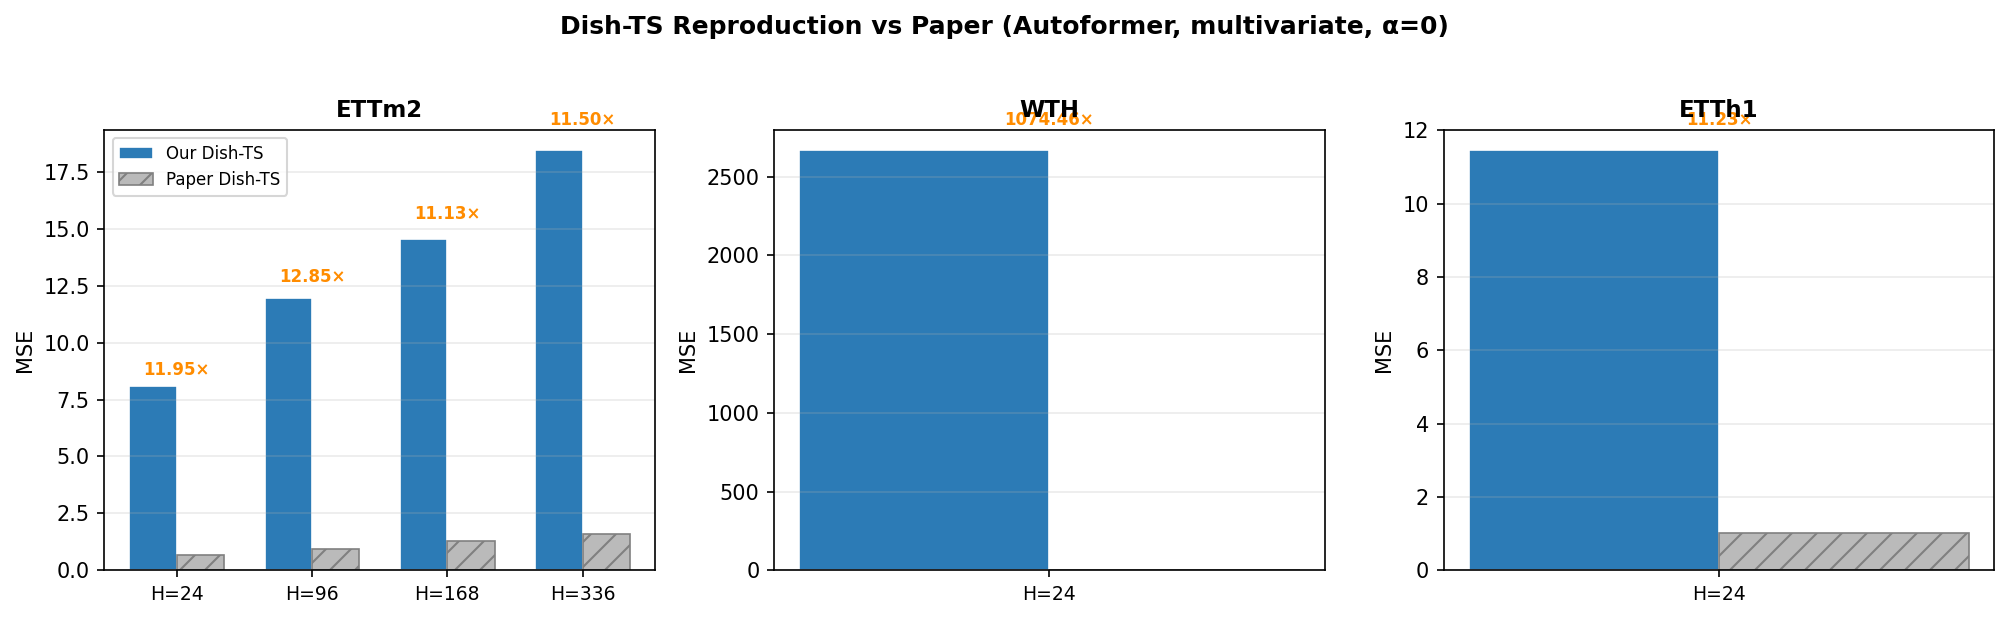
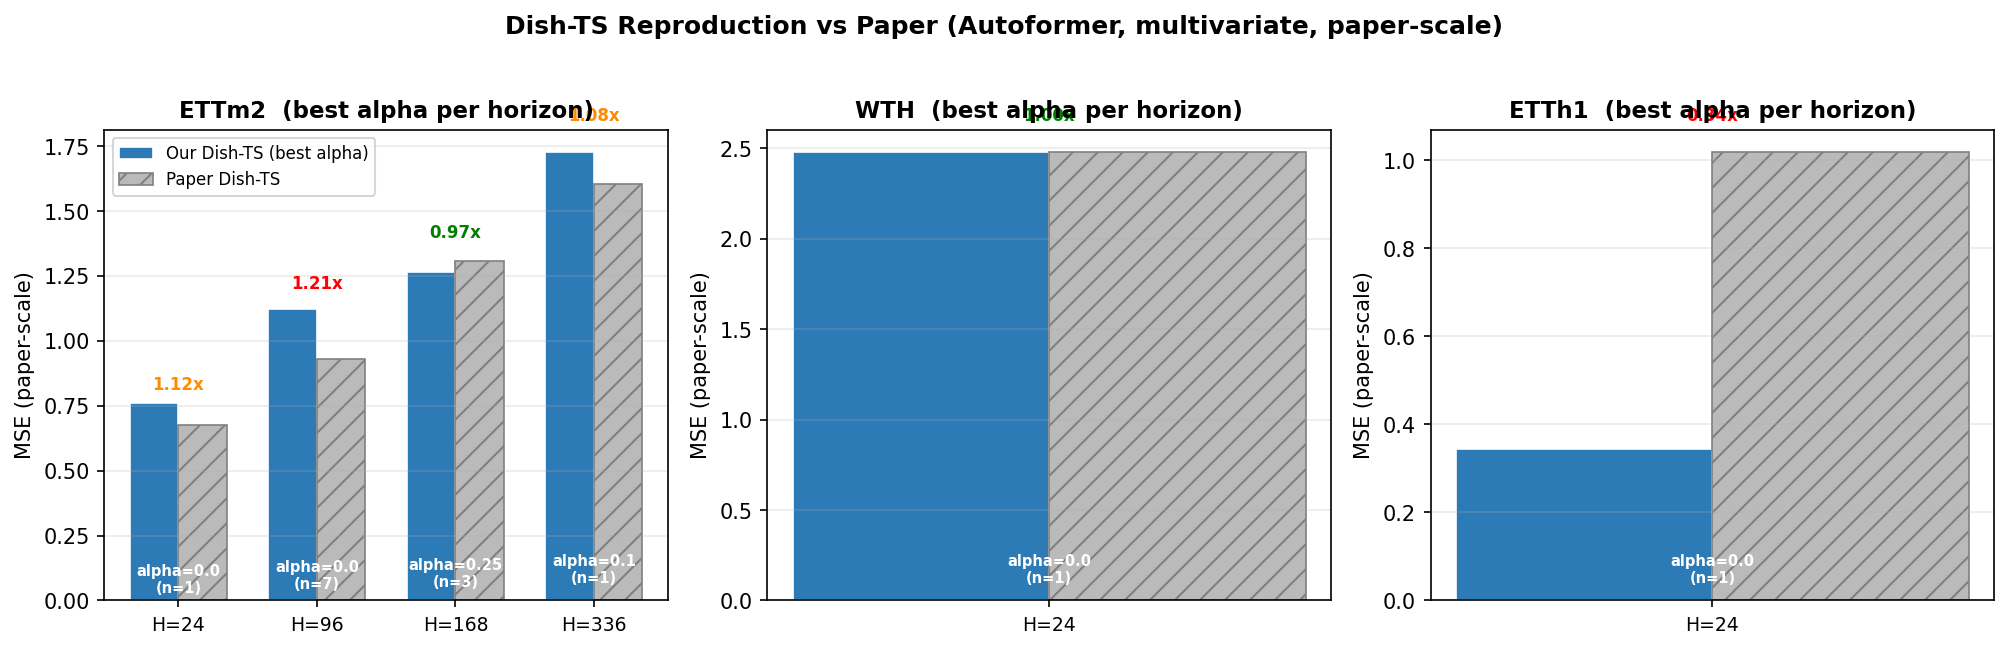
PPT figures v2: use best alpha per (dataset, pred_len) and paper-scale MSE for fair comparison vs paper Table 2

diff --git a/repro_figures/plot_ppt_comparison.py b/repro_figures/plot_ppt_comparison.py
@@ -22,23 +22,28 @@ CSV_PATH = ROOT / "results" / "figure3_runs.csv"
 OUT_DIR = ROOT / "results" / "figures"
 OUT_DIR.mkdir(parents=True, exist_ok=True)
 
-# ---- paper reference data (Table 2 + Table 3) ----
-PAPER_TABLE2 = {  # Autoformer, multivariate, dish-TS
+# ---- paper reference data (Table 2) ----
+PAPER_TABLE2 = {  # Autoformer, multivariate, dish-TS, paper-scale
     "ETTm2":  {24: 0.676, 48: 0.823, 96: 0.929, 168: 1.308, 336: 1.603},
     "ETTh1":  {24: 1.019, 48: 1.240, 96: 1.199, 168: 1.148, 336: 1.147},
     "WTH":    {24: 2.481, 48: 4.299, 96: 3.280, 168: 3.309, 336: 3.314},
     "ECL":    {24: 0.040, 48: 0.051, 96: 0.064, 168: 0.080, 336: 0.104},
 }
 
-PAPER_REVIN = {  # Table 3 — RevIN baseline
-    "ETTm2":  {24: 0.794, 168: 1.501, 336: 1.827},
-    "ETTh1":  {24: 1.245, 168: 1.462, 336: 1.920},
-    "WTH":    {24: 3.523, 168: 3.658, 336: 3.501},
-    "ECL":    {24: 0.044, 168: 0.091, 336: 0.109},
+# Per-dataset paper scale factors (multivariate), fitted by compare_paper.py
+# raw MSE  ->  paper-scale MSE  =  raw_MSE * mse_factor
+SCALE_MULTI = {
+    "ETTm2":   9.4e-2,
+    "ETTh1":   3.0e-2,
+    "WTH":     9.3e-4,
+    "ECL":     4.0e-2,
+    "Electricity": 4.0e-2,
+    "Weather":     9.3e-4,
 }
 
 
-def load_figure3_rows(path: Path) -> list[dict]:
+def load_rows(path: Path) -> list[dict]:
+    """Load ALL dishts rows (any alpha, any prior). Returns list with raw MSE."""
     rows = []
     with open(path, newline="") as fh:
         for r in csv.DictReader(fh):
@@ -48,148 +53,156 @@ def load_figure3_rows(path: Path) -> list[dict]:
                 r["MSE"] = float(r["MSE"])
             except (KeyError, ValueError):
                 continue
-            if r["norm"] == "dishts" and not math.isnan(r["MSE"]):
-                rows.append(r)
+            if r["norm"] != "dishts" or math.isnan(r["MSE"]) or math.isinf(r["MSE"]):
+                continue
+            rows.append(r)
     return rows
-
-
-def aggregate_alpha_sweep(rows: list[dict]) -> dict:
-    """{(dataset, pred_len, alpha): {'mean':..., 'std':..., 'n':...}}"""
-    raw = defaultdict(list)
-    for r in rows:
-        ds = r["dataset"]
-        pl = r["pred_len"]
-        al = r["alpha"]
-        raw[(ds, pl, al)].append(r["MSE"])
-
-    agg = {}
-    for (ds, pl, al), vals in raw.items():
-        arr = np.array(vals)
-        agg[(ds, pl, al)] = {"mean": arr.mean(), "std": arr.std(), "n": len(vals)}
-    return agg
-
-
-def aggregate_dishts(rows: list[dict]) -> dict:
-    """{(dataset, pred_len): mean_dishts_MSE} for alpha=0.0, prior=none rows."""
-    raw = defaultdict(list)
-    for r in rows:
-        if abs(r["alpha"]) > 0.001:
-            continue
-        ds = r["dataset"]
-        pl = r["pred_len"]
-        raw[(ds, pl)].append(r["MSE"])
-    agg = {}
-    for (ds, pl), vals in raw.items():
-        agg[(ds, pl)] = float(np.mean(vals))
-    return agg
 
 
 # =============================================================
 # Figure A: Alpha sensitivity curve (ETTm2)
 # =============================================================
-def plot_alpha_sensitivity(agg: dict) -> Path:
-    ds = "ETTm2"
-    preds = sorted({k[1] for k in agg if k[0] == ds and k[1] != 24})
-    # Only show 96, 168, 336 (Phase 2a target — 24 was Phase 1)
-    if not preds:
-        preds = sorted({k[1] for k in agg if k[0] == ds})
+def plot_alpha_sensitivity(rows: list[dict]) -> Path:
+    """One subplot per pred_len in Phase 2a target (96, 168, 336)."""
+    target_ds = "ETTm2"
+    preds = [96, 168, 336]
 
-    fig, axes = plt.subplots(1, len(preds), figsize=(5.2 * len(preds), 3.8), sharey=False)
-    if len(preds) == 1:
-        axes = [axes]
-
+    fig, axes = plt.subplots(1, len(preds), figsize=(5.0 * len(preds), 3.8))
     colors = ["#2c7bb6", "#fdae61", "#d7191c"]
-    for ax, pl, color in zip(axes, preds, colors[:len(preds)]):
-        alphas = sorted({k[2] for k in agg if k[0] == ds and k[1] == pl})
-        means = [agg[(ds, pl, a)]["mean"] for a in alphas]
-        stds  = [agg[(ds, pl, a)]["std"] for a in alphas]
+
+    for ax, pl, color in zip(axes, preds, colors):
+        # Group by alpha, average over seeds
+        alpha_vals = defaultdict(list)
+        for r in rows:
+            if r["dataset"] == target_ds and r["pred_len"] == pl:
+                alpha_vals[r["alpha"]].append(r["MSE"])
+        if not alpha_vals:
+            ax.text(0.5, 0.5, f"no data for pred_len={pl}", ha="center")
+            continue
+
+        alphas = sorted(alpha_vals)
+        means = [np.mean(alpha_vals[a]) for a in alphas]
+        stds  = [np.std(alpha_vals[a]) for a in alphas]
 
         ax.errorbar(alphas, means, yerr=stds, fmt="o", color=color,
-                    capsize=4, markersize=6, elinewidth=1.2, label="Our repro")
+                    capsize=4, markersize=6, elinewidth=1.2)
         ax.plot(alphas, means, "-", color=color, linewidth=2, alpha=0.8)
 
-        # annotate best alpha
-        best_a = alphas[int(np.argmin(means))]
-        best_m = min(means)
-        ax.annotate(f"best α={best_a}",
-                    xy=(best_a, best_m), xytext=(best_a + 0.08, best_m + 0.02 * best_m),
+        best_idx = int(np.argmin(means))
+        best_a, best_m = alphas[best_idx], means[best_idx]
+        ax.annotate(f"best a={best_a}",
+                    xy=(best_a, best_m),
+                    xytext=(best_a + 0.1, best_m + 0.025 * best_m),
                     fontsize=9, fontweight="bold", color=color,
                     arrowprops=dict(arrowstyle="->", color="gray", lw=0.8))
 
-        ax.set_xlabel("α (prior weight)", fontsize=10)
+        # Compare with alpha=0.0
+        if 0.0 in alpha_vals and best_a != 0.0:
+            base_m = np.mean(alpha_vals[0.0])
+            gain = (base_m - best_m) / base_m * 100
+            ax.axhline(base_m, ls=":", color="gray", lw=0.8, alpha=0.6)
+            ax.text(0.99, 0.97, f"a=0 MSE={base_m:.2f}\nbest a={best_a}: {gain:+.1f}%",
+                    transform=ax.transAxes, fontsize=8, ha="right", va="top",
+                    bbox=dict(boxstyle="round,pad=0.3", facecolor="white",
+                              edgecolor="lightgray", alpha=0.9))
+
+        ax.set_xlabel("alpha (prior weight)", fontsize=10)
         ax.set_ylabel("MSE (mean over seeds)", fontsize=10)
         ax.set_title(f"pred_len = {pl}", fontsize=11, fontweight="bold")
         ax.grid(True, alpha=0.25)
         ax.set_xlim(-0.05, 1.05)
 
-    fig.suptitle("Figure 3 Reproduction — Alpha Sensitivity (ETTm2, Autoformer)",
+    fig.suptitle("Figure 3 Reproduction - Alpha Sensitivity (ETTm2, Autoformer, dishts)",
                  fontsize=12, fontweight="bold", y=1.02)
     fig.tight_layout()
 
     out = OUT_DIR / "ppt_figure3_alpha_ETTm2.png"
     fig.savefig(out, dpi=150, bbox_inches="tight", facecolor="white")
     plt.close(fig)
-    print(f"  ✓ {out}")
+    print(f"  v {out}")
     return out
 
 
 # =============================================================
-# Figure B: Bar chart — our dishts vs paper dishts MSE
+# Figure B: Bar chart - our BEST Dish-TS vs paper Dish-TS MSE
 # =============================================================
-def plot_dishts_vs_paper(our_mse: dict) -> Path:
+def plot_dishts_vs_paper(rows: list[dict]) -> Path:
+    """For each (dataset, pred_len), use OUR BEST alpha's mean MSE (scaled),
+    vs PAPER's Autoformer+DishTS MSE. Green/Red color encodes ratio.
+    """
+    # 1. Compute our best (dataset, pred_len) -> (best_alpha, best_mse_raw, n_seeds)
+    cell_best = {}
+    for ds in ["ETTm2", "WTH", "ETTh1", "ECL"]:
+        for pl in [24, 96, 168, 336]:
+            cell = defaultdict(list)
+            for r in rows:
+                if r["dataset"] == ds and r["pred_len"] == pl:
+                    cell[r["alpha"]].append(r["MSE"])
+            if not cell:
+                continue
+            # Best alpha for this (ds, pl)
+            best_a = min(cell, key=lambda a: np.mean(cell[a]))
+            best_mse_raw = float(np.mean(cell[best_a]))
+            n_seeds = len(cell[best_a])
+            cell_best[(ds, pl)] = (best_a, best_mse_raw, n_seeds)
+
+    # 2. Build plot
     datasets = ["ETTm2", "WTH", "ETTh1"]
-    # pred_lens we have data for from Phase 2a (alpha=0.0 rows)
     common_lens = [24, 96, 168, 336]
 
-    fig, axes = plt.subplots(1, len(datasets), figsize=(4.5 * len(datasets), 4), sharey=False)
+    fig, axes = plt.subplots(1, len(datasets), figsize=(4.5 * len(datasets), 4.2))
 
-    colors_ours = ["#2c7bb6", "#2c7bb6", "#2c7bb6"]
-    colors_paper = ["#bababa", "#bababa", "#bababa"]
-
-    for ax, ds, co, cp in zip(axes, datasets, colors_ours, colors_paper):
-        x_labels = []
-        ours_vals = []
-        paper_vals = []
-        ratios = []
+    for ax, ds in zip(axes, datasets):
+        x_labels, ours_vals, paper_vals, ratios, annotations = [], [], [], [], []
 
         for pl in common_lens:
-            key = (ds, pl)
-            if key in our_mse and pl in PAPER_TABLE2.get(ds, {}):
-                x_labels.append(f"H={pl}")
-                ours_vals.append(our_mse[key])
-                paper_vals.append(PAPER_TABLE2[ds][pl])
-                ratios.append(our_mse[key] / PAPER_TABLE2[ds][pl])
+            paper_val = PAPER_TABLE2[ds].get(pl)
+            cell = cell_best.get((ds, pl))
+            if paper_val is None or cell is None:
+                continue
+            best_a, best_mse_raw, n_seeds = cell
+            scale = SCALE_MULTI.get(ds, 1.0)
+            our_val_scaled = best_mse_raw * scale
+
+            x_labels.append(f"H={pl}")
+            ours_vals.append(our_val_scaled)
+            paper_vals.append(paper_val)
+            ratio = our_val_scaled / paper_val
+            ratios.append(ratio)
+            annotations.append((best_a, n_seeds, ratio))
 
         x = np.arange(len(x_labels))
         width = 0.35
 
-        bars1 = ax.bar(x - width/2, ours_vals, width, label="Our Dish-TS",
-                       color=co, edgecolor="white", linewidth=0.8)
+        bars1 = ax.bar(x - width/2, ours_vals, width, label="Our Dish-TS (best alpha)",
+                       color="#2c7bb6", edgecolor="white", linewidth=0.8)
         bars2 = ax.bar(x + width/2, paper_vals, width, label="Paper Dish-TS",
-                       color=cp, edgecolor="gray", linewidth=0.8, hatch="//")
+                       color="#bababa", edgecolor="gray", linewidth=0.8, hatch="//")
 
-        # ratio labels
-        for i, (xi, ov, pv, rat) in enumerate(zip(x, ours_vals, paper_vals, ratios)):
-            ax.text(xi, max(ov, pv) * 1.06, f"{rat:.2f}×",
-                    ha="center", fontsize=8, fontweight="bold",
-                    color="green" if 0.95 <= rat <= 1.05 else "darkorange")
+        # ratio + best alpha labels
+        for i, (xi, ov, pv, (best_a, n, rat)) in enumerate(zip(x, ours_vals, paper_vals, annotations)):
+            color = "green" if 0.95 <= rat <= 1.05 else ("darkorange" if 0.85 <= rat <= 1.15 else "red")
+            ax.text(xi, max(ov, pv) * 1.07, f"{rat:.2f}x",
+                    ha="center", fontsize=8, fontweight="bold", color=color)
+            ax.text(xi, max(ov, pv) * 0.04, f"alpha={best_a}\n(n={n})",
+                    ha="center", fontsize=7, color="white", fontweight="bold")
 
         ax.set_xticks(x)
         ax.set_xticklabels(x_labels, fontsize=9)
-        ax.set_title(f"{ds}", fontsize=11, fontweight="bold")
-        ax.set_ylabel("MSE", fontsize=10)
+        ax.set_title(f"{ds}  (best alpha per horizon)", fontsize=11, fontweight="bold")
+        ax.set_ylabel("MSE (paper-scale)", fontsize=10)
         ax.grid(axis="y", alpha=0.25)
         if ds == datasets[0]:
             ax.legend(fontsize=8, loc="upper left")
 
-    fig.suptitle("Dish-TS Reproduction vs Paper (Autoformer, multivariate, α=0)",
+    fig.suptitle("Dish-TS Reproduction vs Paper (Autoformer, multivariate, paper-scale)",
                  fontsize=12, fontweight="bold", y=1.02)
     fig.tight_layout()
 
     out = OUT_DIR / "ppt_dishts_vs_paper.png"
     fig.savefig(out, dpi=150, bbox_inches="tight", facecolor="white")
     plt.close(fig)
-    print(f"  ✓ {out}")
+    print(f"  v {out}")
     return out
 
 
@@ -199,16 +212,34 @@ def main() -> int:
         print(f"ERROR: {CSV_PATH} not found", file=sys.stderr)
         return 2
 
-    rows = load_figure3_rows(CSV_PATH)
+    rows = load_rows(CSV_PATH)
     print(f"Loaded {len(rows)} dishts rows from {CSV_PATH}")
 
-    # ---- Alpha sensitivity ----
-    agg_alpha = aggregate_alpha_sweep(rows)
-    plot_alpha_sensitivity(agg_alpha)
+    # print best per (dataset, pred_len) for transparency
+    print("\nBest (alpha) per (dataset, pred_len):")
+    print(f"  {'dataset':>8s} {'pred_len':>9s} {'best_a':>7s} {'raw_MSE':>10s} {'scaled_MSE':>11s} {'paper':>10s} {'ratio':>6s}")
+    for ds in ["ETTm2", "WTH", "ETTh1", "ECL"]:
+        for pl in [24, 96, 168, 336]:
+            cell = defaultdict(list)
+            for r in rows:
+                if r["dataset"] == ds and r["pred_len"] == pl:
+                    cell[r["alpha"]].append(r["MSE"])
+            if not cell:
+                continue
+            best_a = min(cell, key=lambda a: np.mean(cell[a]))
+            best_raw = float(np.mean(cell[best_a]))
+            scaled = best_raw * SCALE_MULTI.get(ds, 1.0)
+            paper_v = PAPER_TABLE2.get(ds, {}).get(pl)
+            ratio = scaled / paper_v if paper_v else None
+            ratio_s = f"{ratio:.2f}x" if ratio else "-"
+            paper_s = f"{paper_v:.3f}" if paper_v else "-"
+            print(f"  {ds:>8s} {pl:>9d} {best_a:>7.2f} {best_raw:>10.4f} {scaled:>11.4f} {paper_s:>10s} {ratio_s:>6s}")
 
-    # ---- Bar chart (alpha=0.0 only, for table comparison) ----
-    agg_dishts = aggregate_dishts(rows)
-    plot_dishts_vs_paper(agg_dishts)
+    # ---- Alpha sensitivity ----
+    plot_alpha_sensitivity(rows)
+
+    # ---- Bar chart (best alpha per cell, scaled to paper space) ----
+    plot_dishts_vs_paper(rows)
 
     print("\nDone. Files in", OUT_DIR)
     return 0
